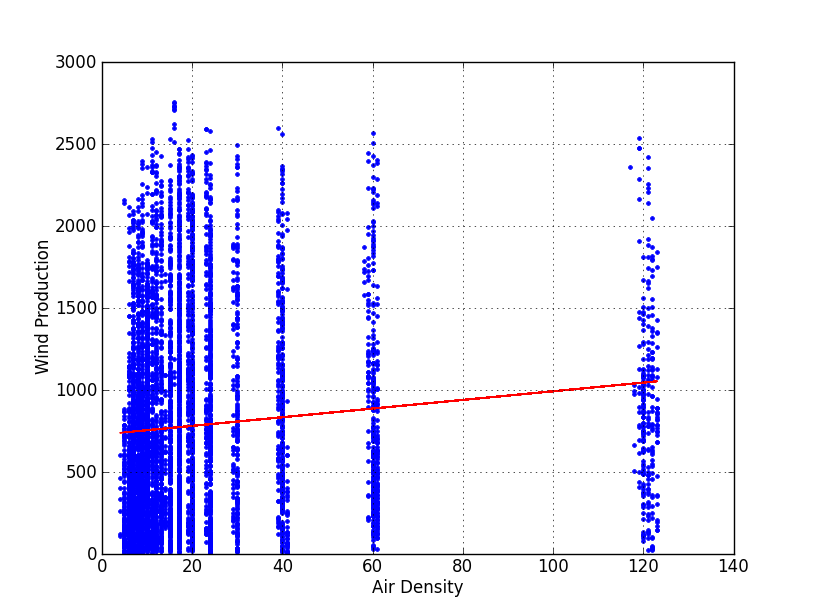
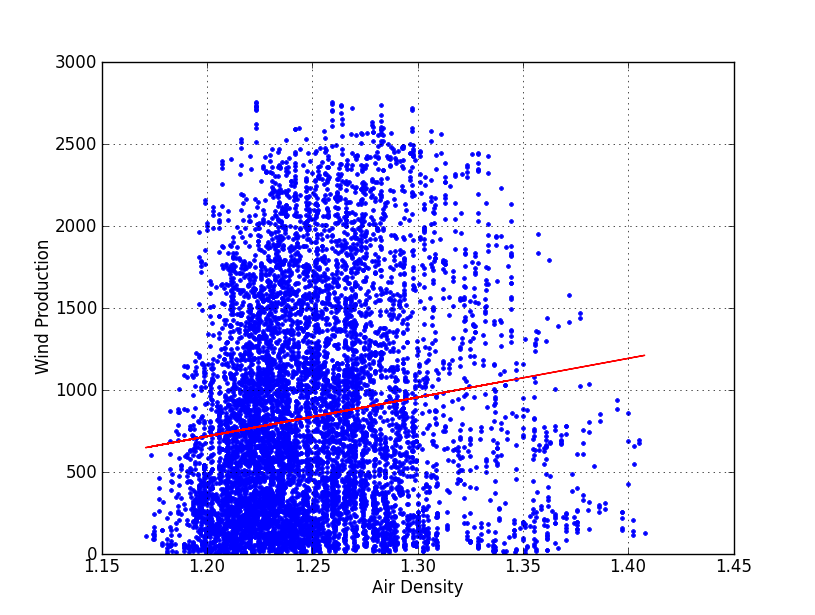
corrections from olof

diff --git a/sections/SimilarDaysApporach/SDMandANN.tex b/sections/SimilarDaysApporach/SDMandANN.tex
@@ -1,7 +1,7 @@
 Predicting electricity prices of tomorrow is of the utmost importance for electric companies to adjust their daily bids. The energy service companies buy electricity on the market and then sell it to their customers. In order to maximize profits the traders of these companies need accurate short-term price predictions \cite{EnergyPriceForecasting}. The hourly price characteristics have been described in the introduction as; 1) highly frequent; 2) highly volatile; 3) calendar affected; 4) having unusual prices due to uncontrolled market events; 5) multiple seasonality (daily and weekly periodicity).
 
 \subsubsection{Artificial Neural Network Prediction}
-In \cite{singhal2011electricity} they use an ANN to predict the half-hourly price of electricity for the next 24 hours. They differentiate between three different kinds of days: Normal trend price, Price with small spikes and price with large spike. They present a prediction for each of these days and present us to the mean absolute error and the root mean square error, which are standard measures for how accurately the prediction is done. The neural network is fed with 13 inputs as follows \cite{singhal2011electricity}:
+\cite{singhal2011electricity} use an ANN to predict the half-hourly price of electricity for the next 24 hours. They differentiate between three different kinds of days: Normal trend price, Price with small spikes and price with large spike. They present a prediction for each of these days and present us to the mean absolute error and the root mean square error, which are standard measures for how accurately the prediction is done. The neural network is fed with 13 inputs as follows \cite{singhal2011electricity}:
 \begin{itemize}[noitemsep,topsep=3pt,parsep=2pt,partopsep=3pt]
 \item Day of week
 \item Time slot of Day
@@ -17,4 +17,4 @@ These inputs are fed into a 4-layer neural network: one input layer, two hidden 
 \\[0.5cm]
 Since price forecasts in electricity markets are such a volatile operation because of the shifting tides, price demand, holidays etc. that affects the price it can be a cumbersome problem to model. In \cite{amjady2006day} he proposes a new method based on neural networks and fuzzy logics to predict the electricity prices. He calls the new network approach a new fuzzy neural network. Fuzzy logic is basically a logic that has many values or many correct answers. Opposed to binary logic sets, where the answer can be only true or false, in fuzzy logic we have several grades of what we define as true, thus making it harder to decide what is really the truth but also makes us able to have a way larger scale of the data we are looking at.
 
-The fuzzy logic is used within the nodes in the hidden layer to do evaluation of the data inputs. That is the activation function of the neurons in the hidden layer contains a fuzzification function that creates a square of the inputs compared to sinus activation functions that normally takes the sums of the inputs. This square over the inputs is used to classify the inputs into hyper cubes (input spaces) and then calculating how close they are together. Calculation of how far the inputs are from each other are used to calculate the output of the functions. By this we will get an upper and lower limit that the inputs can range between and thus we get an input that has the characteristics which turns out to give a better result than ARIMA, wavelet-ARIMA, MultiLayered ANNs and Radial Basis based ANNs. The data however is not optimized in this paper and they claim this to be future work. They also state that the better performance is based on a limited dataset.
+The fuzzy logic is used within the nodes in the hidden layer to do evaluation of the data inputs. That is the activation function of the neurons in the hidden layer contains a fuzzification function that creates a square of the inputs compared to sinus activation functions that normally takes the sums of the inputs. This square over the inputs is used to classify the inputs into hyper cubes (input spaces) and then calculating how close they are together. Calculation of how far the inputs are from each other are used to calculate the output of the functions. By this we will get an upper and lower limit that the inputs can range between and thus we get an input that has the characteristics which turns out to give a better result than ARIMA (discussed below), wavelet-ARIMA, MultiLayered ANNs and Radial Basis based ANNs. The data however is not optimized in this paper and they claim this to be future work. They also state that the better performance is based on a limited dataset.

diff --git a/sections/DataCollection/datacollection.tex b/sections/DataCollection/datacollection.tex
@@ -4,50 +4,51 @@ The data will be aggregated into one file for each of the predictions containing
 
 For the sake of simplicity we will be focusing on West Denmark and Funen which is also known as DK1 on noordpoolspot. The collected data will be validated through plot diagrams that show and establish the relationships between weather conditions and the power generation/price of DK1.
 
-A number of stations in West Denmark and Funen that we consider to be representative will be selected for testing purposes because it is assumed that stations located near each other will have similar data. This is validated by Figure~\ref{fig:barChartAverage, fig:barChartAverage2011} that shows the stable weather conditions for three stations in the region of middle Jutland (~\ref{fig:closeStations}). Furthermore, the relatively small size of Denmark leads to uniform climate and weather conditions across the country which will reduce the total number of stations necessary.
+A number of stations in West Denmark and Funen that we consider to be representative will be selected for testing purposes because it is assumed that stations located near each other will have similar data. This is validated by Figure~\ref{fig:barChartAverage} and ~\ref{fig:barChartAverage2011} that shows the stable weather conditions for three stations in the region of middle Jutland (~\ref{fig:closeStations}). Furthermore, the relatively small size of Denmark leads to uniform climate and weather conditions across the country which will reduce the total number of stations necessary.
 
 The weather data is collected from 11 stations that cover all regions in DK1 ~\ref{fig:stations4average}. The data from all stations will be averaged and used as basis for creating training sets to be used as input parameters for the Artificial Neural Networks.
-\begin{figure}[h!]
+\begin{figure}[H]
 \centering
-\includegraphics[width=0.99\linewidth,natwidth=898,natheight=587]{billeder/barChartMonthlyAverage.png}
+\includegraphics[width=0.85\linewidth,natwidth=898,natheight=587]{billeder/barChartMonthlyAverage.png}
 \caption{Bar chart showing monthly wind speed similarity between stations in 2012}
 \label{fig:barChartAverage}
 \end{figure}
 
-\begin{figure}[h!]
+\begin{figure}[H]
 \centering
-\includegraphics[width=0.99\linewidth,natwidth=898,natheight=587]{billeder/barChartMonthlyAverage2011.png}
+\includegraphics[width=0.85\linewidth,natwidth=898,natheight=587]{billeder/barChartMonthlyAverage2011.png}
 \caption{Bar chart showing monthly wind speed similarity between stations in 2011}
 \label{fig:barChartAverage2011}
 \end{figure}
 
-\begin{figure}[h!]
+\begin{figure}[H]
 \centering
-\includegraphics[width=0.99\linewidth,natwidth=898,natheight=587]{billeder/barChartMonthlyTemperatureAverage.png}
+\includegraphics[width=0.85\linewidth,natwidth=898,natheight=587]{billeder/barChartMonthlyTemperatureAverage.png}
 \caption{Bar chart showing monthly temperature similarity between stations in 2012}
 \label{fig:barChartTempAverage}
 \end{figure}
 
-\begin{figure}[h!]
+\begin{figure}[H]
 \centering
-\includegraphics[width=0.99\linewidth,natwidth=898,natheight=587]{billeder/barChartMonthlyAverageTemperature2011.png}
+\includegraphics[width=0.85\linewidth,natwidth=898,natheight=587]{billeder/barChartMonthlyAverageTemperature2011.png}
 \caption{Bar chart showing monthly temperature similarity between stations in 2011}
 \label{fig:barChartMonthlyAverageTemperature2011}
 \end{figure}
 
-ALSO SHOW SIMILARITY IN TEMPERATURE!!!
-SHOW STATIONS FROM ACROSS DK ~\ref{fig:closeStations}
-\begin{figure}[h!]
+\begin{figure}[H]
 \centering
-\includegraphics[width=0.99\linewidth,natwidth=898,natheight=587]{billeder/KarupAarhusSydOgLufthavn.png}
+\includegraphics[width=0.85\linewidth,natwidth=898,natheight=587]{billeder/KarupAarhusSydOgLufthavn.png}
 \caption{Weather stations placed close to each other}
 \label{fig:closeStations}
 \end{figure}
-\\[0.5cm]
-MAKE MAP OF DK AND SHOW THE USED STATIONS
-\begin{figure}[h!]
+
+\begin{figure}[H]
 \centering
-\includegraphics[width=0.99\linewidth,natwidth=898,natheight=587]{billeder/stations4average.png}
+\includegraphics[width=0.85\linewidth,natwidth=898,natheight=587]{billeder/stations4average.png}
 \caption{Selected weather stations in DK1}
 \label{fig:stations4average}
 \end{figure}
+
+We will remove data that is obscure and is related to conditions we cannot predict. 
+
+we need to discuss the fact that all production data stems from nordpoolspot. The impact is obscure values a times of very low consumption.

diff --git a/sections/GreenEnergyTrainingset/greenEnergyTrainingSet.tex b/sections/GreenEnergyTrainingset/greenEnergyTrainingSet.tex
@@ -11,7 +11,7 @@ The relationship between hourly wind speed and hourly wind power production of D
 \end{figure}
 
 \subsubsection{Air Density}
-It is described in the Wind Power Production section that wind power is proportional to air density where a higher density means more power. Furthermore, air density depends directly on temperature and pressure which can be described by $Air Density=\frac{P}{(R*T)}$ where R is a gas constant. If pressure decreases so will air density and therefore it is expected that the wind power production will be less during periods with lower pressure. This can best be illustrated by finding days with same wind speed and showing that production will have a tendency to decrease when the pressure is lower. This is illustrated in Figure~\ref{fig:pressureVsProd} where all days with wind speed 13 is selected. What is noticeable from all pressure data is the low range which goes from 980 to 1030 (SHOW PLOT WITH THAT).
+It is described in the Wind Power Production section that wind power is proportional to air density where a higher density means more power. Furthermore, air density depends directly on temperature and pressure which can be described by $Air Density=\frac{P*M}{(R*T)}$ where R is a gas constant and M is the density if air. If pressure decreases so will air density and therefore it is expected that the wind power production will be less during periods with lower pressure. This can best be illustrated by finding days with same wind speed and showing that production will have a tendency to decrease when the pressure is lower. This is illustrated in Figure~\ref{fig:pressureVsProd} where all days with wind speed 13 is selected. What is noticeable from all pressure data is the low range which goes from 980 to 1030 (SHOW PLOT WITH THAT).
 The formula expresses that when the temperature decreases the air density will increase linearly e.g. the wind power production will be higher in times of low temperature. This exact relationship is seen in Figure~\ref{fig:tempVsProd}.
 \begin{figure}[h!]
 \centering
@@ -27,7 +27,14 @@ The formula expresses that when the temperature decreases the air density will i
 \label{fig:tempVsProd}
 \end{figure}
 
-SHOW figure with air density.
+The air density has been calculated for every hour in the training set and the result can be seen in Figure~\ref{fig:windProductionVsAirDensity}. The relationship is as expected and the power production increases with the air density.
+
+\begin{figure}[h!]
+\centering
+\includegraphics[width=0.99\linewidth,natwidth=898,natheight=587]{billeder/windProductionVsAirDensity.png}
+\caption{Air Density vs. Wind Power in 2012}
+\label{fig:windProductionVsAirDensity}
+\end{figure}
 
 \subsubsection{Wind Direction}
 bla bla intro. Figure~\ref{fig:windDirVsProd} shows that western wind has a tendency to produce more energy. (need to further investigated but seems valid when looking at dk).
@@ -38,8 +45,15 @@ bla bla intro. Figure~\ref{fig:windDirVsProd} shows that western wind has a tend
 \label{fig:windDirVsProd}
 \end{figure}
 
-\subsubsection{Relative Humidity}
-The dew point is a water-to-air saturation temperature. The dew point is associated with relative humidity. A high relative humidity indicates that the dew point is closer to the current air temperature. Relative humidity of 100\% indicates the dew point is equal to the current temperature and that the air is maximally saturated with water. When the dew point remains constant and temperature increases, relative humidity decreases.[1]
+\subsubsection{Consumption}
+It is expected that the wind power available on the energy market will be low at times with low consumption, e.g if no energy is needed the wind power can't be sold.  This relationship is shown in Figure~\ref{fig:consumptionVsWindProduction}.
+
+\begin{figure}[h!]
+\centering
+\includegraphics[width=0.99\linewidth,natwidth=898,natheight=587]{billeder/consumptionVsWindProduction.png}
+\caption{Wind Direction vs. wind production in 2012}
+\label{fig:consumptionVsWindProduction}
+\end{figure}
 
 \subsection{Modelling Artificial Neural Network}
 The ANN will be trained with input the hourly parameters of wind speed, temperature, pressure and humidity and then compared to the actual production of that hour.

diff --git a/sections/Introduction/TheMethod.tex b/sections/Introduction/TheMethod.tex
@@ -1,5 +1,5 @@
+Based on the dataset that is available and the nonlinear nature of price forecasting and energy price prediction we want a system that is able to develop and learn from the past. Artificial Neural Networks can be categorized as Machine Learning \cite{18} and are networks that imitate the behaviour of the human brain \cite{1}. We choose to base our system on ANN because it gives us the power to be able to forecast energy prices based on how the prices have evolved in the past. Our decision is based on the nature of Artificial Neural Networks and how it is used in machine learning. It is often used in non-linear statistical analysis \cite{16} and has been used to predict various prices within the commodity market \cite{2,3,stockForecasting,pjmForecast}. We have chosen to use a multi-layered feed forward architecture since this is one of the most used and widely implemented in open-source frameworks \cite{17}.
+
 We will base our work on Artificial Neural Networks and the resilient backpropagation (RPROP) algorithm used to train the network in order to predict electricity prices and wind power generation. It is faster than its predecessor Backpropagation \cite{8,15}.  The RPROP algorithm is a learning algorithm that uses weights to analyze the input dataset and to configure further learning \cite{17}. It is commonly used on the feedforward architecture and is the most used and implemented algorithm on ANNs \cite{14,17}.
 
 The prediction algorithm will be based on historical data which potentially could be a very large dataset. The more historical data included in the algorithm the more data needs to be processed. We need to analyse how much of this data is necessary for precise prediction and perhaps make tradeoffs to ensure performance for decision support.
-
-Based on the dataset that is available and the nonlinear nature of price forecasting and energy price prediction we want a system that is able to develop and learn from the past. Artificial Neural Networks can be categorized as Machine Learning \cite{18} and are networks that imitate the behaviour of the human brain \cite{1}. We choose to base our system on ANN because it gives us the power to be able to forecast energy prices based on how the prices have evolved in the past. Our decision is based on the nature of Artificial Neural Networks and how it is used in machine learning. It is often used in non-linear statistical analysis \cite{16} and has been used to predict various prices within the commodity market \cite{2,3,stockForecasting,pjmForecast}. We have chosen to use a multi-layered feed forward architecture since this is one of the most used and widely implemented in open-source frameworks \cite{17}.

diff --git a/sections/PowerGenerationPrediction/analysisOfPowerGenerationPRediction.tex b/sections/PowerGenerationPrediction/analysisOfPowerGenerationPRediction.tex
@@ -8,7 +8,7 @@ The identification of rich wind resources have become important together with th
 \end{figure} 
 
 \subsubsection{Windmill Placement}
-It is important to analyse and predict the wind power generation at a certain location before placing actual windmills. Before investing billions of dollars in a new wind farm it is of utmost importance to put it in the best possible location in relation to wind statistics, e.g. force of the wind and how often the winds change in power and direction at the position. In \cite{4} they use a Measure-Correlate-Predict (MCP) method to predict wind statistics based on large amount of geographical-, weather- and historical data so that the farms can be placed best possible. These algorithms are heavy and will do calculations on sensor data directly from the location for months before giving any results. Time is not an issue because the the company need to know for certain that the location will make the wind mills produce to the best or their ability.
+It is important to analyse and predict the wind power generation at a certain location before placing actual windmills. Before making a substantial investment in a new wind farm it is of utmost importance to put it in the best possible location in relation to wind statistics, e.g. force of the wind and how often the winds change in power and direction at the position. In \cite{4} they use a Measure-Correlate-Predict (MCP) method to predict wind statistics based on large amount of geographical-, weather- and historical data so that the farms can be placed best possible. These algorithms are heavy and will do calculations on sensor data directly from the location for months before giving any results. Time is not an issue because the the company need to know for certain that the location will make the wind mills produce to the best or their ability.
 
 Another approach is seen in \cite{WindPowerGenerationUsingANN} where wind speed, relative humidity and generation hours of the windmills are used as input for an Artificial Neural Network. Wind energy is proportional to air density where the more "heavy" air contributes to the windmill turbine receiving more energy, thus the power production will vary together with the density. Moist air is lighter than dry air because water molecules are less dense than the molecules in dry air such as oxygen and nitrogen. This basically means that the more air molecules like oxygen and nitrogen the more wind energy \cite{AirDensityInForecast}.
 The air density depends on pressure and temperature but is also influenced by relative humidity. The parameters is needed when attempting to forecast the wind power production.

diff --git a/sections/DecisionSupport/DecisionSupport.tex b/sections/DecisionSupport/DecisionSupport.tex
@@ -1,4 +1,4 @@
-Since the late 1970s decision support has been a developing area both in the scientific research but also as a tool in the private sector. Decision support is important in that it helps the users to gain an advantage in complex markets and it helps them to take the better decision when it comes down to a crucial choice. Decision support has been applied in many forms over the years and as computers evolve and they become more sophisticated the same applies for the decision support systems (DSS).
+Since the late 1970s decision support has been a developing area both in the scientific research but also as a tool in the private sector. Decision support is important in that it helps the users to gain an advantage in complex domains and it helps them to take the better decision when it comes down to a crucial choice. Decision support has been applied in many forms over the years and as computers evolve and they become more sophisticated the same applies for the decision support systems (DSS).
 
 In \cite{shim2002past} they argue that DSS are an inevitable evolution in decision making companies across the globe. They describe how DSS systems have evolved from being a conceptual framework to sophisticated software providing information for information heavy companies. In the beginning DSS only existed on standalone computers as a ressource to take into consideration when discussing something with your colleagues. It evolved with the introduction of data warehouses and the world wide web into a more analytic tool, called on-line analytic processing, that gathered information from data warehouses and compiled this information into behavioural information about customers or the like. This was decision support based on datamining and analysis of the data. Also the introduction of the internet (as we know it) reduced the costs of bringing DSS to smaller cooperations and firms and made it easier for people to use this software in their everyday work scenario. This also introduced collaborative support systems that are systems focused on helping groups of people rather than just a single individual. These types of decision support systems often spans more than just small groups of users and incorporates entire organisations into one decision support system. While these systems are interesting we wont be covering them here becaues they are out of the scope of this thesis. Instead we will be looking at Optimization-based support models. These DSS can be divided into three stages formulation, solution and analysis\cite{shim2002past}:
 \begin{quotation}

diff --git a/sections/SVMforecasting/SVMforecasting.tex b/sections/SVMforecasting/SVMforecasting.tex
@@ -1,4 +1,4 @@
-Support vector machines (SVM) can be used for forecasting in the commodity market. In \cite{xie2006new} they use SVMs for predicting the crude oil prices. SVMs are by nature a linear learning machine which means SVMs always use linear functions to solve the regression analysis. However they can be expanded to be able to solve nonlinear problems. This is done by mapping the data into a high-dimensional feature space using a nonlinear mapping. Afterwards it is possible to use linear regression on this space to solve nonlinear problems. The SVMs undergo four different phases before being able to make predictions. These can be seen in figure ~\ref{fig:phasesOfSVM}.
+Support vector machines (SVM) can be used for forecasting in the commodity market. In \cite{xie2006new} they use SVMs for predicting the crude oil prices. SVMs are by nature a linear learning machine which means SVMs always use linear functions to solve the regression analysis. However they can be expanded to be able to solve nonlinear problems. This is done by mapping the data into a high-dimensional feature space using a nonlinear mapping. Afterwards it is possible to use linear regression on this space to solve nonlinear problems. The SVMs undergo four different phases before being able to make predictions. These can be seen in Figure ~\ref{fig:phasesOfSVM}.
 \begin{figure}[weight!]
 \centering
 \includegraphics[width=0.8\textwidth ,natwidth=410,natheight=237]{billeder/phases_of_SVM.png}

diff --git a/sections/Prediction/ElectricityDemands.tex b/sections/Prediction/ElectricityDemands.tex
@@ -48,5 +48,5 @@ The calculation model can also include socio-economic factors. Specifically the 
 \subsubsection{Summary}
 The electricity demand has great influence on the energy price. It is important to identify the influences of the demand because those inevitably also will have an affect on the electricity prices. 
 
-The concept of Cooling Degree Days (CDD) and Heating Degree Days (HDD) have been described. It could be interesting to see the result on accuracy when using these simple calculations on the temperature input because it simply ignores the temperature when heating or cooling is not needed. 
+The concept of Cooling Degree Days (CDD) and Heating Degree Days (HDD) has been described. It could be interesting to see the result on accuracy when using these simple calculations on the temperature input because it simply ignores the temperature when heating or cooling is not needed. It also needs to be discussed if the concept of degree days makes sense in countries without heating or cooling tradition.
 Furthermore the demand function (\^E$_{A}$) is presented. This function gives an exact picture of the factors that directly influence the demand and the possible mappings to our ANN as the demand part --- every parameter is an input.

diff --git a/thesis.tex b/thesis.tex
@@ -17,6 +17,7 @@
 \usepackage{subcaption}
 \usepackage{hyperref}
 \usepackage{enumitem} %Used to make lists smaller
+%\usepackage{float}
 
 \renewcommand*\ttdefault{txtt}
 
@@ -97,7 +98,7 @@ This section will give an overview of concepts within the area of price and gree
 %%%%%%%%%%%%%%%%%%%%%%%%%%%%%%%%%%%%%%%%%%%%%%%%%%%%%%%%%%%%%%%%%%%%%%%
 
 \chapter{Main Concepts}
-This chapter will introduce and explain the technologies and concepts that are the foundation for the thesis.
+This chapter introduces and explains the technologies and concepts that are the foundation for the thesis.
 \label{ch:foundations}
 \section{Machine Learning}
 \input{sections/MachineLearning/MachineLearning.tex}
